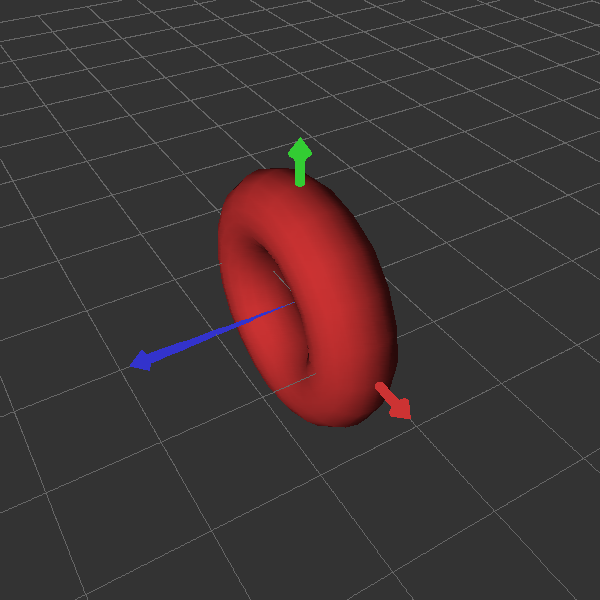
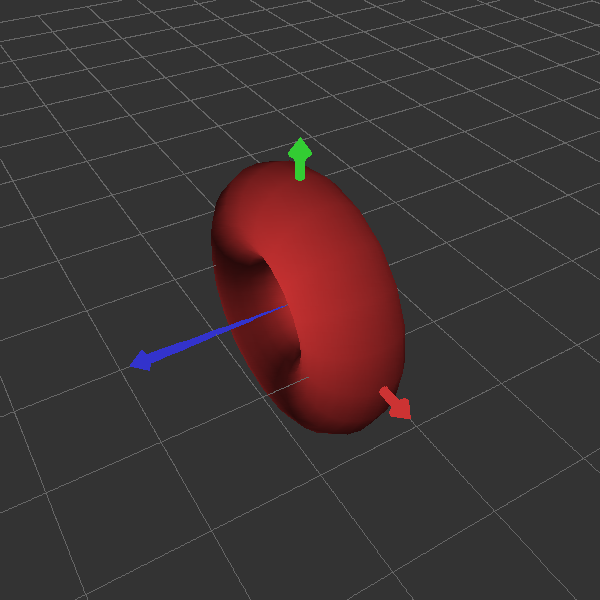
torus wire passes

Changed region(s): [[0.33, 0.27, 0.69, 0.72]]

diff --git a/model/src/modeler/shape/Torus.java b/model/src/modeler/shape/Torus.java
@@ -118,9 +118,9 @@ public class Torus extends Shape {
 		Point3f[][] vertices2D = new Point3f[latitude][longitude];
 
 		float R = 1.0f;
-		float r = 0.3f;
+		float r = R /aspectRatio;
 
-		double latAngleIncrement = 360.0f / latitude;
+		double latAngleIncrement = 360.0f / (latitude-1);
     	double lonAngleIncrement = 360.0f / longitude;
 				
 		for (int i = 0; i < latitude; i++) 
@@ -173,11 +173,11 @@ public class Torus extends Shape {
 
 	Point3i[] generateTriangles(int numFacets)
 	{	
-		int latitude = numFacets;
+		int latitude = numFacets+1;
         int longitude = numFacets;
 		List<Point3i> triangleList = new ArrayList<>();
 
-		for (int i = 0; i < latitude - 1; i++) {
+		for (int i = 0; i < latitude; i++) {
 			for (int j = 0; j < longitude; j++) {
 				int currentVertex = i * longitude + j;
 				int nextRowVertex = ((i + 1) % latitude) * longitude + j;
